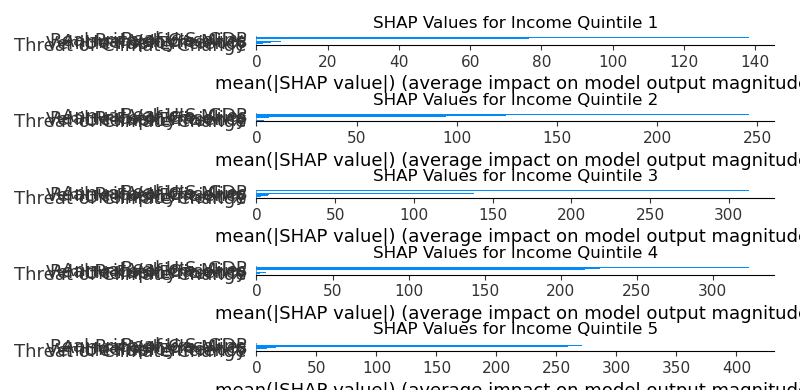
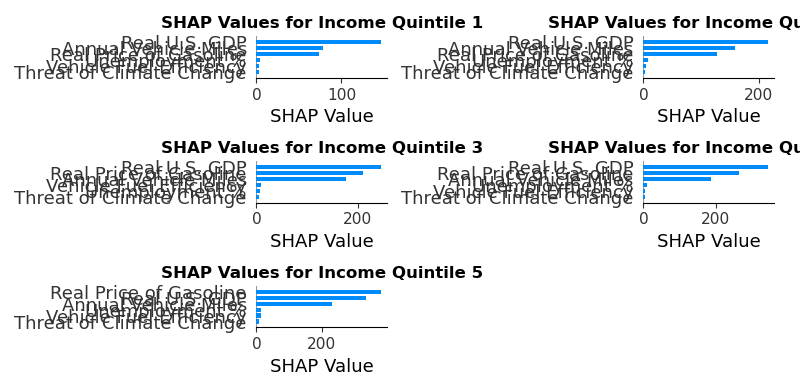
Functioning graph if you adjust margins with matplotlib

diff --git a/gas_prices_model.py b/gas_prices_model.py
@@ -6,6 +6,8 @@ from sklearn.metrics import mean_squared_error
 from sklearn.impute import SimpleImputer
 import shap
 import matplotlib.pyplot as plt
+from matplotlib import gridspec
+
 
 # Load data
 data = pd.read_csv('gas_data.csv')
@@ -33,9 +35,20 @@ test_data = data[data['Year'].isin(test_years)]
 # Initialize a dictionary to store results
 results = {}
 
-# Subplots
-fig, axes = plt.subplots(5, 1, figsize=(10, 30))
-fig.tight_layout(pad=5.0)
+# Prepare the subplots using GridSpec for custom layout
+fig = plt.figure(figsize=(30, 45))
+gs = gridspec.GridSpec(3, 2, height_ratios=[1, 1, 1], width_ratios=[1, 1])
+
+# Axes list for custom placement
+axes = [
+    fig.add_subplot(gs[0, 0]),
+    fig.add_subplot(gs[0, 1]),
+    fig.add_subplot(gs[1, 0]),
+    fig.add_subplot(gs[1, 1]),
+    fig.add_subplot(gs[2, 0]),
+    fig.add_subplot(gs[2, 1])
+]
+
 
 for i, target in enumerate(targets):
     X_train = train_data[features]
@@ -58,14 +71,22 @@ for i, target in enumerate(targets):
     explainer = shap.Explainer(model, X_train)
     shap_values = explainer(X_test)
     
-    # Plot SHAP values# Plot SHAP values
+    # Plot SHAP values
     plt.sca(axes[i])
     shap.summary_plot(shap_values, X_test, feature_names=features, show=False, plot_type='bar')
-    axes[i].set_title(f'SHAP Values for {target}')
+    axes[i].set_title(f'SHAP Values for {target}', fontsize=12, fontweight='bold')
+    axes[i].set_xlabel('SHAP Value')
+    
+    # Remove the mean(|SHAP value|) bar
+    if axes[i].get_legend() is not None and len(axes[i].get_legend().get_texts()) > 1:
+        axes[i].get_legend().remove()
+
     
 # Display results
 for target, mse in results.items():
     print(f'Mean Squared Error for {target}: {mse}')
 
+axes[5].axis('off')
 plt.savefig(f'shap_values.png')
+plt.tight_layout()
 plt.show()
